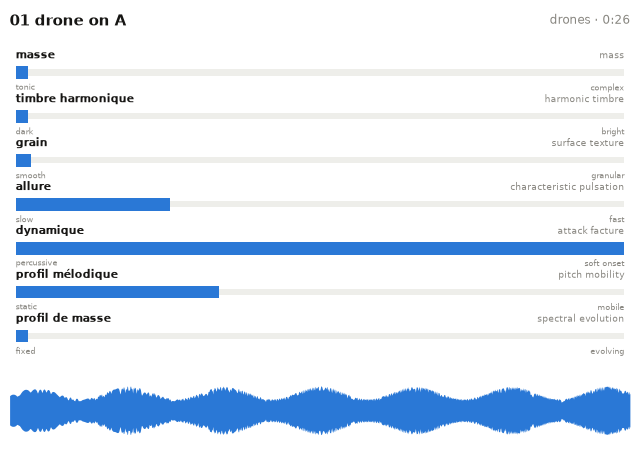
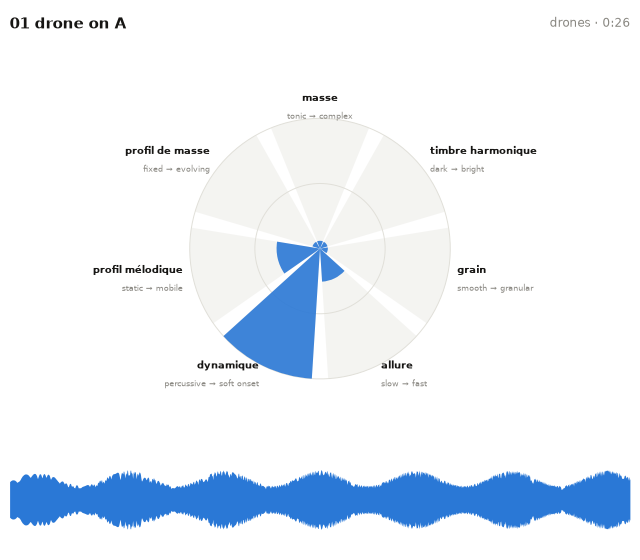
TARSOM card: centre-periphery rose instead of gauge rows
Each criterion a sector radiating from the centre pole (tonic, dark,
smooth, slow, percussive, static, fixed) toward its periphery pole, so
a track's morphology reads as one shape. Docs image and text updated.

Claude-Session: https://claude.ai/code/session_019RgeDBofmt4YWVZsxYZDfP

diff --git a/src/musiscape/thumbnails.py b/src/musiscape/thumbnails.py
@@ -31,8 +31,10 @@ Each track becomes one card, in a choice of representations:
 
 - ``tarsom`` — the track's position on Schaeffer's seven morphological
   criteria (TARSOM: masse, timbre harmonique, grain, allure, dynamique,
-  profil mélodique, profil de masse), each a labeled gauge with signal
-  proxies calibrated on instrumental corpora;
+  profil mélodique, profil de masse) as a centre–periphery rose: each
+  criterion a sector radiating from the centre pole (tonic, dark, smooth,
+  slow, percussive, static, fixed) toward its periphery pole (complex,
+  bright, granular, fast, soft, mobile, evolving);
 - ``schaeffer`` — the track's sound objects on a typo-morphology (TARTYP)
   timeline: three mass lanes (N tonic / Y variable / X complex), facture
   as mark style (impulse ticks, hatched iterations, solid held blocks),
@@ -67,7 +69,7 @@ STYLES = ("mel", "chroma", "tempo", "combo", "barcode", "ssm",
 #: taller cards for the square-ish representations
 _TALL = {"combo": 5.4, "ssm": 5.2, "trajectory": 5.2, "keyscape": 5.2,
          "rhythm": 5.2, "vinyl": 5.6, "spiral": 5.6, "tonnetz": 5.2,
-         "arcs": 4.4, "schaeffer": 4.4, "tarsom": 4.6}
+         "arcs": 4.4, "schaeffer": 4.4, "tarsom": 5.6}
 
 _FIFTHS = 2 * np.pi * (7 * np.arange(12) % 12) / 12
 
@@ -478,7 +480,8 @@ def _draw_main(ax, y, sr, style, color="#2a78d6"):
 
     elif style == "tarsom":
         crit = _tarsom_criteria(y, sr)
-        nrows = len(TARSOM_ROWS)
+        n = len(TARSOM_ROWS)
+        wedge = 2 * np.pi / n
         for r, (key, name, gloss, lo, hi, logsc, la, ra) in \
                 enumerate(TARSOM_ROWS):
             v = crit[key]
@@ -487,20 +490,28 @@ def _draw_main(ax, y, sr, style, color="#2a78d6"):
                     / (np.log10(hi) - np.log10(lo))
             else:
                 x = (v - lo) / (hi - lo)
-            x = float(np.clip(x, 0.02, 1.0))
-            yy = (nrows - 1 - r) * 1.45
-            ax.barh(yy, 1.0, height=0.20, color=GRID, alpha=0.55,
-                    linewidth=0)
-            ax.barh(yy, x, height=0.42, color=color, linewidth=0)
-            ax.text(0, yy + 0.38, name, fontsize=8, color=INK,
-                    fontweight="semibold", va="bottom")
-            ax.text(1.0, yy + 0.40, gloss, fontsize=6.5, color=MUT,
-                    va="bottom", ha="right")
-            ax.text(0, yy - 0.36, la, fontsize=6, color=MUT, va="top")
-            ax.text(1.0, yy - 0.36, ra, fontsize=6, color=MUT, va="top",
-                    ha="right")
-        ax.set_xlim(-0.01, 1.01)
-        ax.set_ylim(-0.95, (nrows - 1) * 1.45 + 0.95)
+            x = float(np.clip(x, 0.06, 1.0))
+            th = r * wedge
+            ax.bar(th, 1.0, width=wedge * 0.86, bottom=0,
+                   color=GRID, alpha=0.35, linewidth=0)
+            ax.bar(th, x, width=wedge * 0.86, bottom=0,
+                   color=color, alpha=0.9, linewidth=0)
+            sx = np.sin(th)
+            ha = "left" if sx > 0.25 else "right" if sx < -0.25 else "center"
+            for txt, dy, fs, col, wt in ((name, 7, 7.5, INK, "semibold"),
+                                         (f"{la} → {ra}", -6, 5.5, MUT,
+                                          "normal")):
+                ax.annotate(txt, xy=(th, 1.08), xytext=(0, dy),
+                            textcoords="offset points", ha=ha, va="center",
+                            fontsize=fs, color=col, fontweight=wt,
+                            annotation_clip=False)
+        ring = np.linspace(0, 2 * np.pi, 120)
+        for rr in (0.5, 1.0):
+            ax.plot(ring, np.full_like(ring, rr), color=GRID,
+                    linewidth=0.7, zorder=0)
+        ax.set_theta_zero_location("N"); ax.set_theta_direction(-1)
+        ax.set_ylim(0, 1.5)
+        ax.spines["polar"].set_visible(False)
 
     elif style == "wave":
         env, colors = wave_colors(y, sr)
@@ -591,7 +602,7 @@ def render_track(track: Track, color: str, out_path: str | Path,
                               left=0.015, right=0.985, top=top, bottom=0.05,
                               hspace=0.10)
         for i, (name, M, vmin) in enumerate(panels):
-            polar = style in ("vinyl", "spiral")
+            polar = style in ("vinyl", "spiral", "tarsom")
             ax = (fig.add_subplot(gs[i], projection="polar") if polar
                   else fig.add_subplot(gs[i]))
             if spectro:

diff --git a/docs/guide/schaeffer.md b/docs/guide/schaeffer.md
@@ -24,7 +24,9 @@ drones, pedals, large objects) are a planned extension.
 
 The *Tableau récapitulatif du solfège des objets musicaux* summarises seven
 morphological criteria. The card shows the track's measured position on
-each, as gauges with anchored class scales:
+each as a centre–periphery rose — every criterion a sector radiating from
+the centre pole (tonic, dark, smooth, slow, percussive, static, fixed)
+toward its periphery pole, so a track's morphology reads as one shape:
 
 | Criterion | Proxy | Scale |
 |---|---|---|
